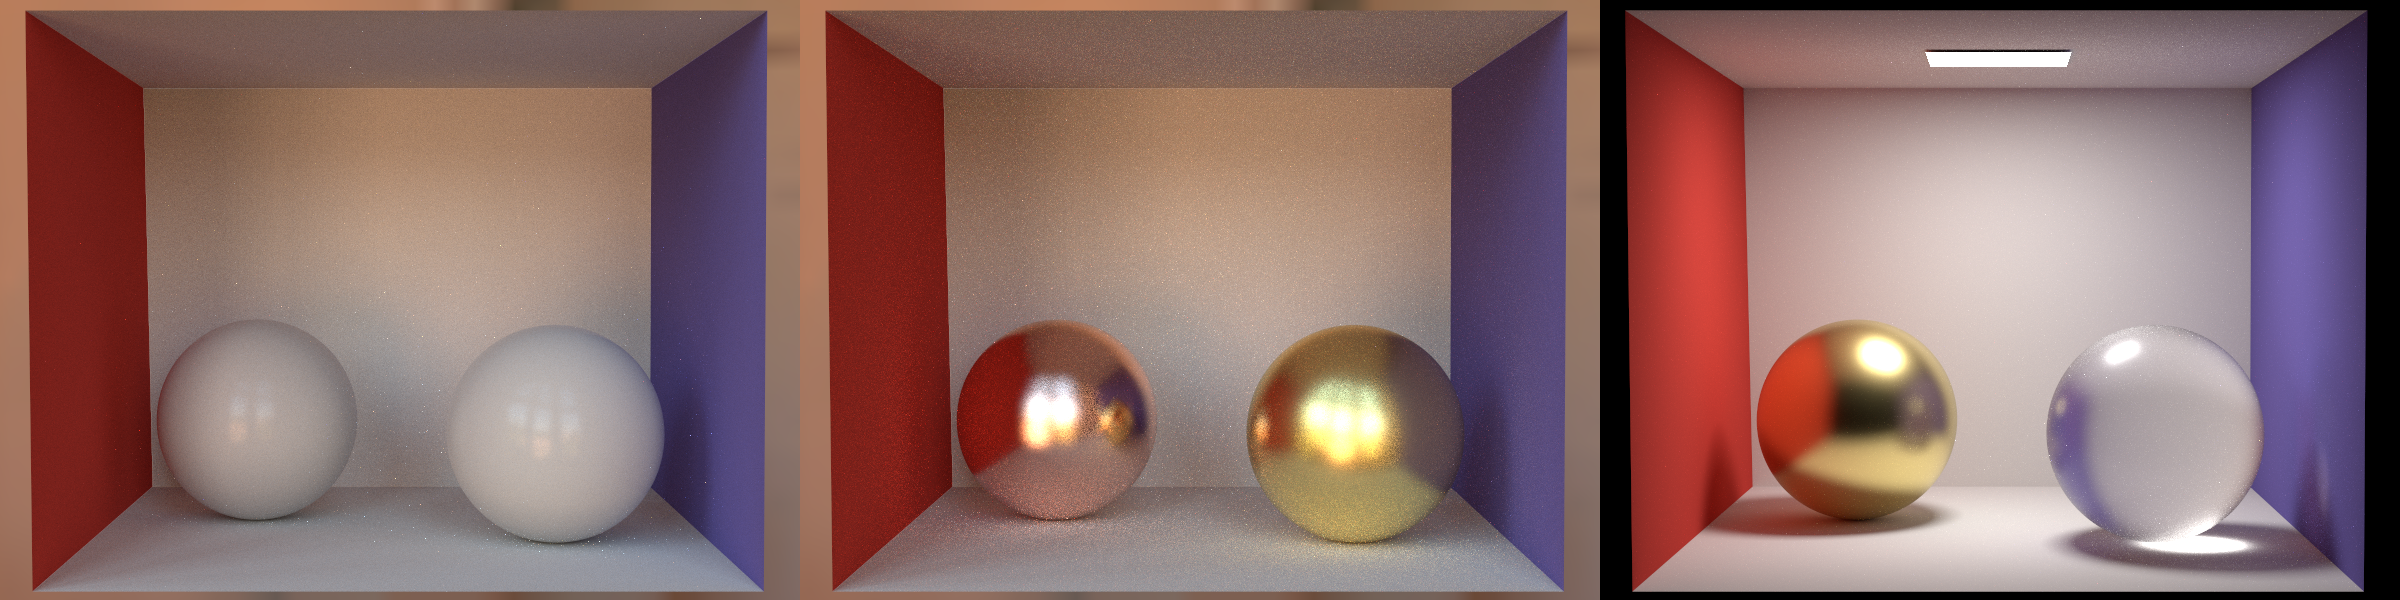
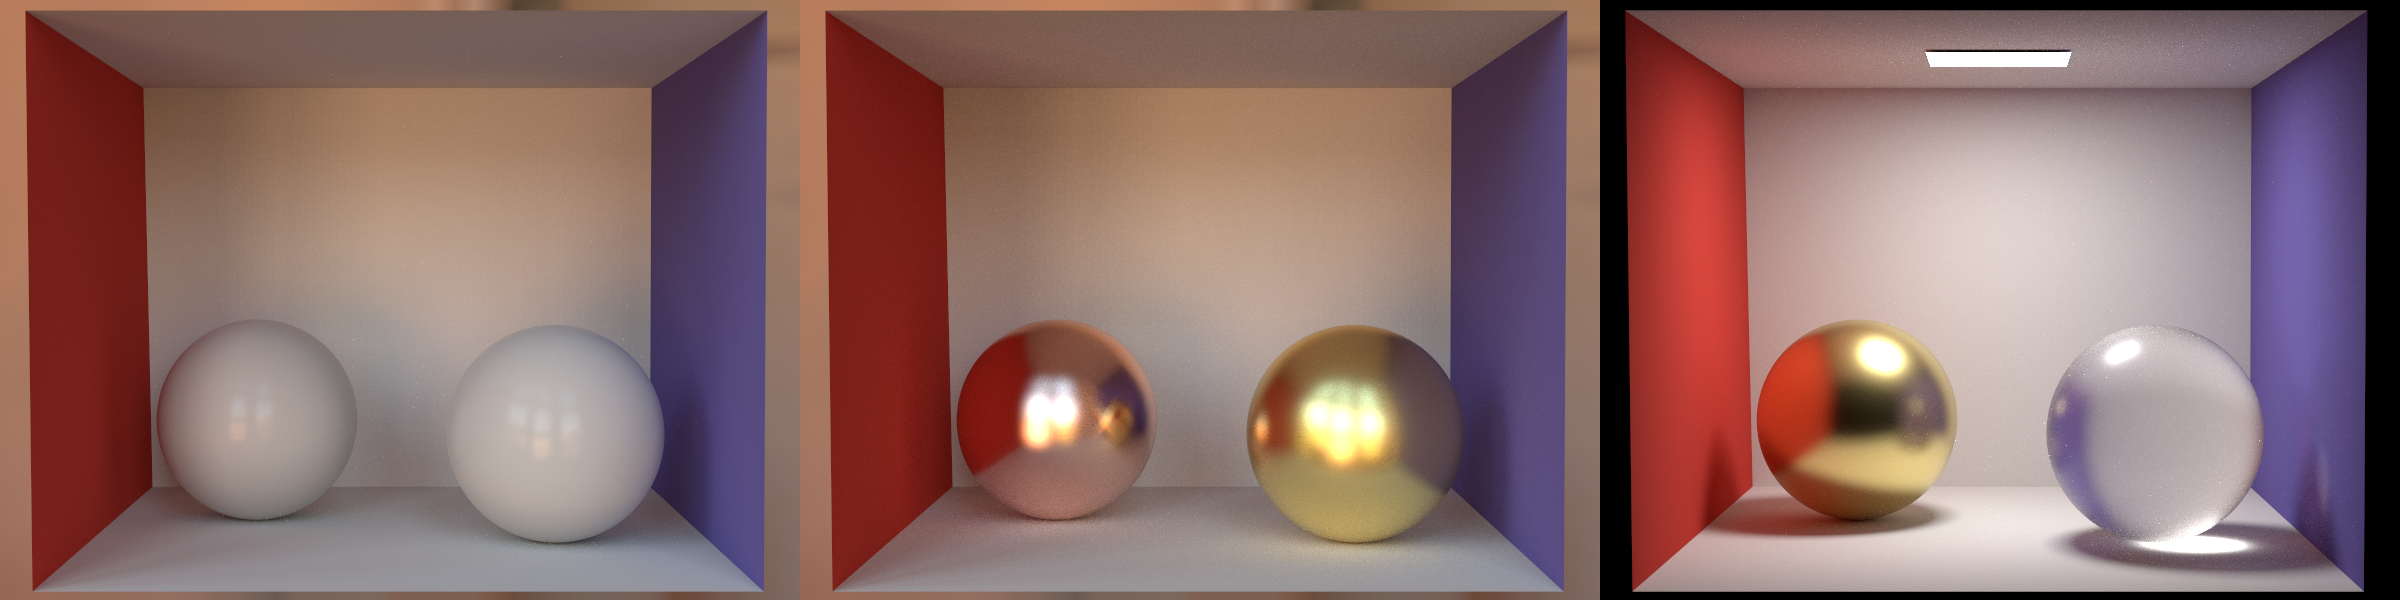
fix double side brdf

Changed region(s): [[0.4062, 0.81, 0.4688, 0.9], [0.4375, 0.63, 0.4688, 0.72], [0.5312, 0.9, 0.5938, 0.93]]

diff --git a/Radiantium.Offline/Config/RendererBuilder.cs b/Radiantium.Offline/Config/RendererBuilder.cs
@@ -35,13 +35,19 @@ namespace Radiantium.Offline.Config
                 LightSampleStrategy strategy = Enum.Parse<LightSampleStrategy>(param.ReadString("strategy", "Uniform"));
                 return new VolumetricPathTracer(maxDepth, minDepth, rrThreshold, strategy);
             });
+            builder.AddIntegratorBuilder("gbuffer", (_, param) =>
+            {
+                GBufferType name = Enum.Parse<GBufferType>(param.ReadString("name", "Normal"));
+                return new GBufferVisualization(name);
+            });
             builder.AddAccelBuilder("bvh", (_, p, param) => new Bvh(p, param.ReadInt32("max_prim", 1), Enum.Parse<SplitMethod>(param.ReadString("split", "SAH"))));
             builder.AddAccelBuilder("octree", (_, p, param) => new Octree(p, param.ReadInt32("max_depth", 10), param.ReadInt32("max_count", 10), param.ReadFloat("out_bound", 2.0f)));
             builder.AddMaterialBuilder("diffuse", (builder, images, param) =>
-             {
-                 Texture2D kd = param.ReadTex2D("kd", builder, new Color3F(0.5f));
-                 return new Diffuse(kd);
-             });
+            {
+                Texture2D kd = param.ReadTex2D("kd", builder, new Color3F(0.5f));
+                bool isTwoSide = param.ReadBool("is_two_side", false);
+                return new Diffuse(kd, isTwoSide);
+            });
             builder.AddMaterialBuilder("perfect_glass", (builder, images, param) =>
             {
                 Texture2D r = param.ReadTex2D("r", builder, new Color3F(1));
@@ -53,7 +59,8 @@ namespace Radiantium.Offline.Config
             builder.AddMaterialBuilder("perfect_mirror", (builder, images, param) =>
             {
                 Texture2D r = param.ReadTex2D("r", builder, new Color3F(1));
-                return new PerfectMirror(r);
+                bool isTwoSide = param.ReadBool("is_two_side", false);
+                return new PerfectMirror(r, isTwoSide);
             });
             builder.AddMaterialBuilder("rough_plastic", (builder, images, param) =>
             {
@@ -64,7 +71,8 @@ namespace Radiantium.Offline.Config
                 float ks = param.ReadFloat("ks", 0.5f);
                 float etaI = param.ReadFloat("etaA", 1.000277f);
                 float etaT = param.ReadFloat("etaB", 1.5046f);
-                return new RoughPlastic(r, dist, roughness, kd, ks, etaI, etaT);
+                bool isTwoSide = param.ReadBool("is_two_side", false);
+                return new RoughPlastic(r, dist, roughness, kd, ks, isTwoSide, etaI, etaT);
             });
             builder.AddMaterialBuilder("rough_metal", (builder, images, param) =>
             {
@@ -95,7 +103,8 @@ namespace Radiantium.Offline.Config
                 {
                     (eta, k) = Spectrum.NameToEtaAndK["Cu"];
                 }
-                return new RoughMetal(eta, k, roughness, dist);
+                bool isTwoSide = param.ReadBool("is_two_side", false);
+                return new RoughMetal(eta, k, roughness, dist, isTwoSide);
             });
             builder.AddMaterialBuilder("rough_glass", (builder, images, param) =>
             {

diff --git a/Radiantium.Offline/Materials/RoughPlastic.cs b/Radiantium.Offline/Materials/RoughPlastic.cs
@@ -16,10 +16,10 @@ namespace Radiantium.Offline.Materials
         public float Ks { get; }
         public float EtaI { get; }
         public float EtaT { get; }
-
+        public bool IsTwoSide { get; }
         public override BxdfType Type => BxdfType.Diffuse | BxdfType.Reflection | BxdfType.Glossy;
 
-        public RoughPlastic(Texture2D r, MicrofacetDistributionType distType, Texture2D roughness, float kd, float ks, float etaI = 1, float etaT = 1.5f)
+        public RoughPlastic(Texture2D r, MicrofacetDistributionType distType, Texture2D roughness, float kd, float ks, bool isTwoSide, float etaI = 1, float etaT = 1.5f)
         {
             R = r ?? throw new ArgumentNullException(nameof(r));
             Dist = distType;
@@ -28,6 +28,7 @@ namespace Radiantium.Offline.Materials
             Ks = ks;
             EtaI = etaI;
             EtaT = etaT;
+            IsTwoSide = isTwoSide;
         }
 
         private (Color3F, float, float) SampleParams(Vector2 uv)
@@ -49,7 +50,13 @@ namespace Radiantium.Offline.Materials
         private Color3F FrImpl<T>(Vector3 wo, Vector3 wi, T dist,
             (Color3F, float, float) param) where T : IMicrofacetDistribution
         {
-            if (CosTheta(wo) <= 0 || CosTheta(wi) <= 0) { return new Color3F(0.0f); }
+            if (CosTheta(wo) <= 0 || CosTheta(wi) <= 0)
+            {
+                if (!IsTwoSide)
+                {
+                    return new Color3F(0.0f);
+                }
+            }
             var (r, kd, ks) = param;
             Color3F diffuse = new LambertianReflectionBrdf(r).Fr(wo, wi);
             Color3F glossy = new MicrofacetReflectionBrdf<Fresnel.Dielectric, T>(
@@ -75,7 +82,13 @@ namespace Radiantium.Offline.Materials
         private float PdfImpl<T>(Vector3 wo, Vector3 wi, T dist,
             (Color3F, float, float) param) where T : IMicrofacetDistribution
         {
-            if (CosTheta(wo) <= 0 || CosTheta(wi) <= 0) { return 0.0f; }
+            if (CosTheta(wo) <= 0 || CosTheta(wi) <= 0)
+            {
+                if (!IsTwoSide)
+                {
+                    return 0.0f;
+                }
+            }
             var (r, kd, ks) = param;
             float p = GlossyProbability(kd, ks);
             float diffuse = new LambertianReflectionBrdf(r).Pdf(wo, wi);
@@ -102,7 +115,13 @@ namespace Radiantium.Offline.Materials
         private SampleBxdfResult SampleImpl<T>(Vector3 wo, Vector2 uv, Random rand, T dist)
             where T : IMicrofacetDistribution
         {
-            if (CosTheta(wo) <= 0) { return new SampleBxdfResult(); }
+            if (CosTheta(wo) <= 0)
+            {
+                if (!IsTwoSide)
+                {
+                    return new SampleBxdfResult();
+                }
+            }
             var param = SampleParams(uv);
             var (r, kd, ks) = param;
             float p = GlossyProbability(kd, ks);

diff --git a/Radiantium.Offline/Materials/RoughMetal.cs b/Radiantium.Offline/Materials/RoughMetal.cs
@@ -11,14 +11,16 @@ namespace Radiantium.Offline.Materials
         public Color3F K { get; }
         public Texture2D Roughness { get; }
         public MicrofacetDistributionType Dist { get; }
+        public bool IsTwoSide { get; }
         public override BxdfType Type => BxdfType.Reflection | BxdfType.Glossy;
 
-        public RoughMetal(Color3F eta, Color3F k, Texture2D roughness, MicrofacetDistributionType dist)
+        public RoughMetal(Color3F eta, Color3F k, Texture2D roughness, MicrofacetDistributionType dist, bool isTwoSide)
         {
             Eta = eta;
             K = k;
             Roughness = roughness ?? throw new ArgumentNullException(nameof(roughness));
             Dist = dist;
+            IsTwoSide = isTwoSide;
         }
 
         private float GetParam(Vector2 uv)
@@ -30,8 +32,10 @@ namespace Radiantium.Offline.Materials
         {
             if (CosTheta(wo) <= 0 || CosTheta(wi) <= 0)
             {
-                wo = -wo;
-                wi = -wi;
+                if (!IsTwoSide)
+                {
+                    return new Color3F(0.0f);
+                }
             }
             return new MicrofacetReflectionBrdf<Fresnel.Conductor, T>(
                 new Color3F(1.0f),
@@ -55,8 +59,10 @@ namespace Radiantium.Offline.Materials
         {
             if (CosTheta(wo) <= 0 || CosTheta(wi) <= 0)
             {
-                wo = -wo;
-                wi = -wi;
+                if (!IsTwoSide)
+                {
+                    return 0.0f;
+                }
             }
             return new MicrofacetReflectionBrdf<Fresnel.Conductor, T>(
                 new Color3F(1.0f),
@@ -80,7 +86,10 @@ namespace Radiantium.Offline.Materials
         {
             if (CosTheta(wo) <= 0)
             {
-                wo = -wo;
+                if (!IsTwoSide)
+                {
+                    return new SampleBxdfResult();
+                }
             }
             return new MicrofacetReflectionBrdf<Fresnel.Conductor, T>(
                 new Color3F(1.0f),

diff --git a/Radiantium.Offline/Materials/Diffuse.cs b/Radiantium.Offline/Materials/Diffuse.cs
@@ -7,25 +7,48 @@ namespace Radiantium.Offline.Materials
     public class Diffuse : Material
     {
         public Texture2D Kd { get; }
+        public bool IsTwoSide { get; }
         public override BxdfType Type => BxdfType.Reflection | BxdfType.Diffuse;
 
-        public Diffuse(Texture2D kd)
+        public Diffuse(Texture2D kd, bool isTwoSide)
         {
             Kd = kd;
+            IsTwoSide = isTwoSide;
         }
 
         public override Color3F Fr(Vector3 wo, Vector3 wi, Intersection inct)
         {
+            if (Coordinate.CosTheta(wo) <= 0 || Coordinate.CosTheta(wi) <= 0)
+            {
+                if (!IsTwoSide)
+                {
+                    return new Color3F(0.0f);
+                }
+            }
             return new LambertianReflectionBrdf(Kd.Sample(inct.UV)).Fr(wo, wi);
         }
 
         public override float Pdf(Vector3 wo, Vector3 wi, Intersection inct)
         {
+            if (Coordinate.CosTheta(wo) <= 0 || Coordinate.CosTheta(wi) <= 0)
+            {
+                if (!IsTwoSide)
+                {
+                    return 0.0f;
+                }
+            }
             return new LambertianReflectionBrdf(Kd.Sample(inct.UV)).Pdf(wo, wi);
         }
 
         public override SampleBxdfResult Sample(Vector3 wo, Intersection inct, Random rand)
         {
+            if (Coordinate.CosTheta(wo) <= 0)
+            {
+                if (!IsTwoSide)
+                {
+                    return new SampleBxdfResult();
+                }
+            }
             return new LambertianReflectionBrdf(Kd.Sample(inct.UV)).Sample(wo, rand);
         }
     }

diff --git a/Radiantium.Offline/Integrators/GBufferVisualization.cs b/Radiantium.Offline/Integrators/GBufferVisualization.cs
@@ -1,0 +1,40 @@
+using Radiantium.Core;
+using System.Numerics;
+
+namespace Radiantium.Offline.Integrators
+{
+    public enum GBufferType
+    {
+        Normal,
+        Depth
+    }
+
+    public class GBufferVisualization : Integrator
+    {
+        public GBufferType Name { get; }
+
+        public GBufferVisualization(GBufferType name)
+        {
+            Name = name;
+        }
+
+        public override Color3F Li(Ray3F ray, Scene scene, Random rand)
+        {
+            if (!scene.Intersect(ray, out Intersection inct))
+            {
+                return new Color3F();
+            }
+            switch (Name)
+            {
+                case GBufferType.Normal:
+                    Vector3 normal = inct.N;
+                    return new Color3F(Vector3.Clamp(normal, new Vector3(0), new Vector3(1)));
+                case GBufferType.Depth:
+                    float depth = inct.T / (ray.MaxT - ray.MinT);
+                    return new Color3F(Math.Clamp(depth, 0, 1));
+                default:
+                    return new Color3F();
+            }
+        }
+    }
+}

diff --git a/Radiantium.Offline/Materials/PerfectMirror.cs b/Radiantium.Offline/Materials/PerfectMirror.cs
@@ -7,11 +7,13 @@ namespace Radiantium.Offline.Materials
     public class PerfectMirror : Material
     {
         public Texture2D R { get; }
+        public bool IsTwoSide { get; }
         public override BxdfType Type => BxdfType.Reflection | BxdfType.Specular;
 
-        public PerfectMirror(Texture2D r)
+        public PerfectMirror(Texture2D r, bool isTwoSide)
         {
             R = r;
+            IsTwoSide = isTwoSide;
         }
 
         public override Color3F Fr(Vector3 wo, Vector3 wi, Intersection inct)
@@ -26,6 +28,13 @@ namespace Radiantium.Offline.Materials
 
         public override SampleBxdfResult Sample(Vector3 wo, Intersection inct, Random rand)
         {
+            if (Coordinate.CosTheta(wo) <= 0)
+            {
+                if (!IsTwoSide)
+                {
+                    return new SampleBxdfResult();
+                }
+            }
             return new IdealReflectionBrdf(R.Sample(inct.UV)).Sample(wo, rand);
         }
     }

diff --git a/Radiantium.Offline/Shapes/Sphere.cs b/Radiantium.Offline/Shapes/Sphere.cs
@@ -33,7 +33,8 @@ namespace Radiantium.Offline.Shapes
             ray = Ray3F.Transform(ray, WorldToModel);
             Vector3 p = ray.At(t);
             Vector3 n = Normalize(p);
-            Coordinate coord = new Coordinate(n);
+            Vector3 worldN = TransformNormal(n, ModelToWorld);
+            Coordinate coord = new Coordinate(worldN);
 
             float theta = Acos(-n.Y);
             float phi = Atan2(-n.Z, n.X) + MathF.PI;

diff --git a/README.md b/README.md
@@ -7,7 +7,7 @@ MIT
 
 ## Gallery
 
-### Homogeneous Participating Medium
+### Homogeneous Participating Media
 
 <img src="Gallery/participating_media.png"  />
 
@@ -17,13 +17,13 @@ vol_path 512spp
 
 <img src="Gallery/material.png"  />
 
-path
+path 8192spp
 
-left: plastic 1024spp (There are many differences compared to the result of Mitsuba2)
+left: plastic (There are many differences compared to the result of Mitsuba2)
 
-center: metal 1024spp
+center: metal
 
-right: metal and glass 8192spp
+right: metal and glass
 
 ### Teapots (Instanced Test)
 
